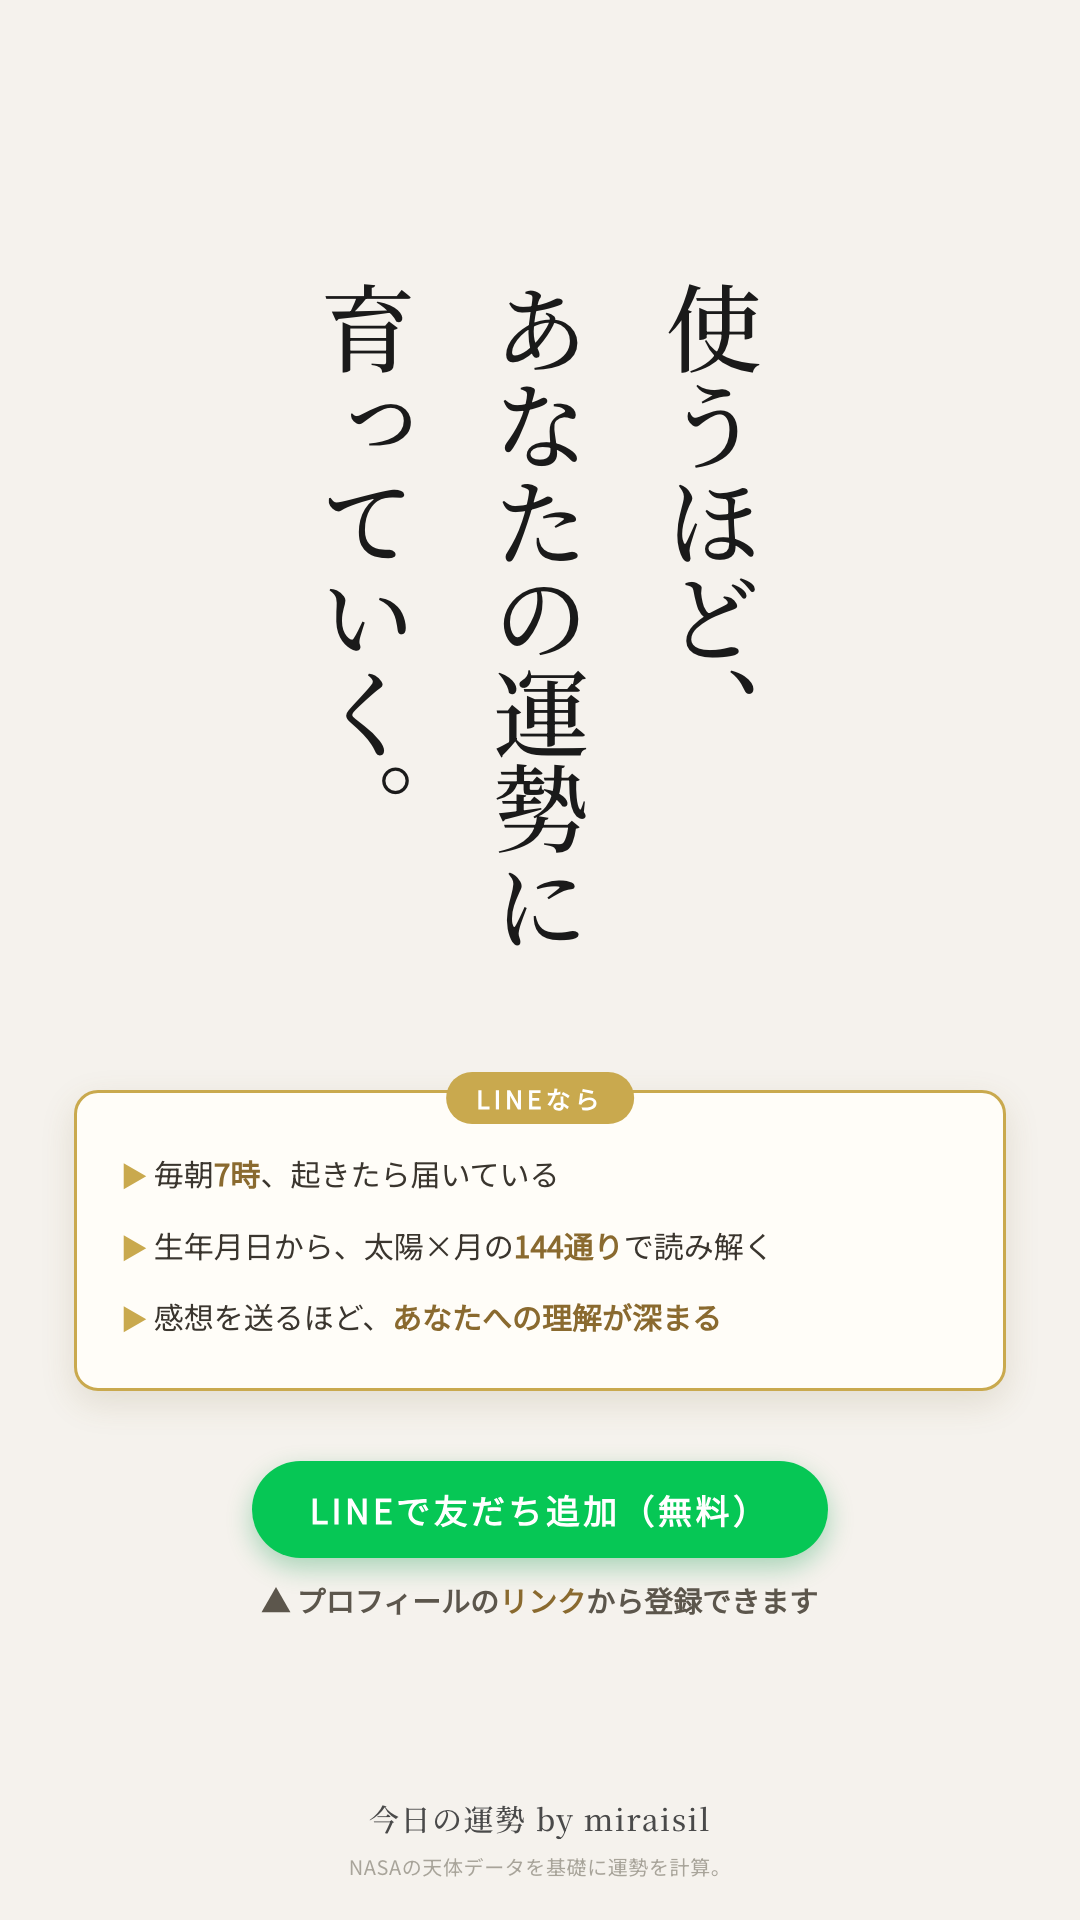
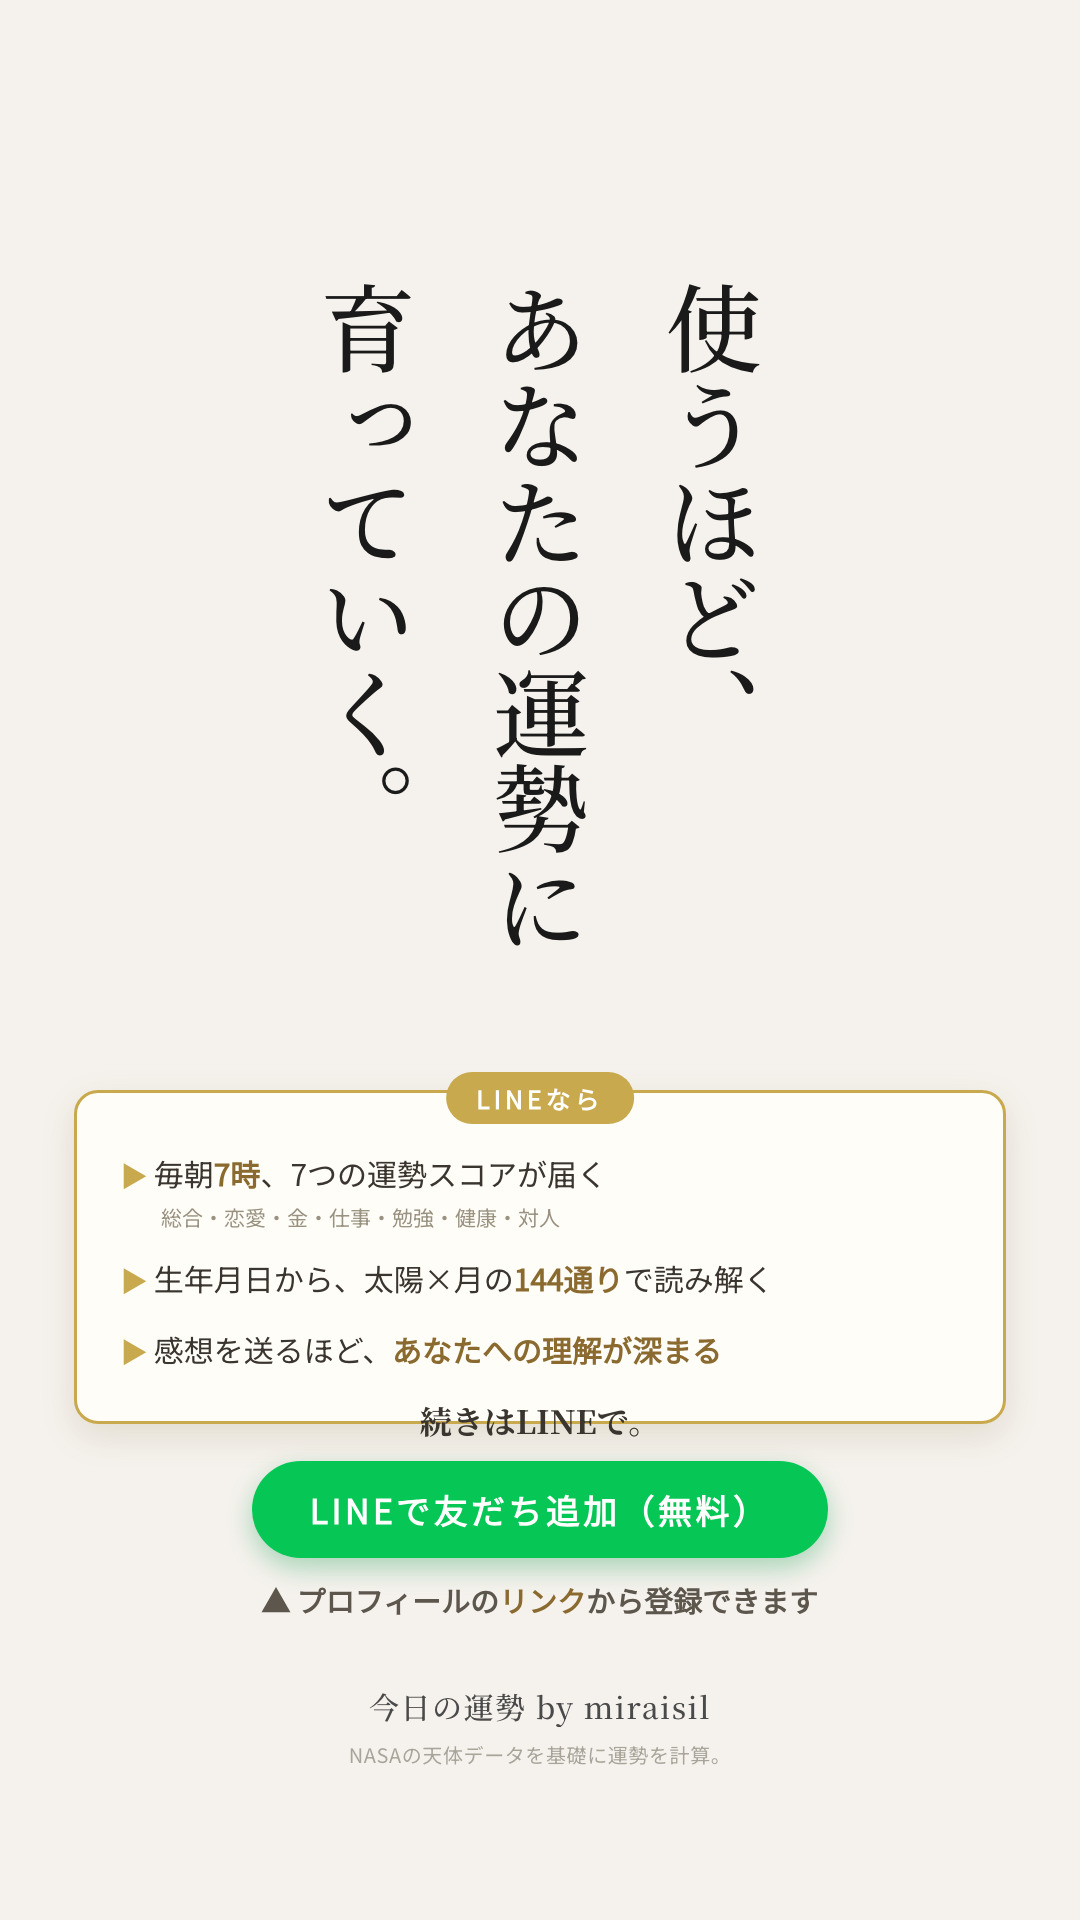
CTA slide: swap first bullet + add subline, add lead-in above button, align footer position with other 3 slides

Changed region(s): [[0.0611, 0.5938, 0.9472, 0.75], [0.3667, 0.875, 0.6417, 1.0], [0.3667, 0.875, 0.3972, 0.9062]]

diff --git a/story-4slide-test/index.html b/story-4slide-test/index.html
@@ -4,7 +4,7 @@
 <meta charset="UTF-8">
 <meta name="viewport" content="width=device-width, initial-scale=1.0">
 <meta name="robots" content="noindex, nofollow">
-<title>ストーリーズ4枚構成 確認（帯/題名入替・フッタ中央・改行D） | miraisil</title>
+<title>ストーリーズ4枚構成 確認（CTAスライド3点修正） | miraisil</title>
 <style>
   * { box-sizing: border-box; margin: 0; padding: 0; }
   body {
@@ -33,8 +33,16 @@
 </style>
 </head>
 <body>
-<div class="label">ストーリーズ4枚構成 TEST（帯/題名入替・フッタ中央・改行D） &middot; Internal Only</div>
+<div class="label">ストーリーズ4枚構成 TEST（CTAスライド3点修正） &middot; Internal Only</div>
 <div class="fixnote">
+<b>今回: CTAスライド最小限修正</b><br>
+既存の見出し・レイアウト・ボタン・フッタ文言は維持し、以下3点のみ変更:<br>
+1. 「LINEなら」1項目め「毎朝7時、起きたら届いている」→「毎朝7時、7つの運勢スコアが届く」に差し替え、
+直下に小さめのサブライン「総合・恋愛・金・仕事・勉強・健康・対人」を追加。2項目め・3項目めは無変更。<br>
+2. 友だち追加ボタンの直上に「続きはLINEで。」を1行追加。<br>
+3. フッタ位置を他3スライドと統一（旧: bottom:36px → 新: bottom:140px、background/padding も他スライドと同一に）。
+実測: 4スライドとも本文開始のy座標が完全一致（y=1693）していることを確認済み。<br>
+牡羊座カードにCTA（slide4）を追加表示しています。<br><br>
 <b>A. 帯と縦書き題名の入替え</b><br>
 帯を実カテゴリ名（例:「今日の恋愛運スコアは」）、縦書き題名を「攻め運/守り運」種別
 （例:「水瓶座　7月16日の攻め運」）に入替え済み。実測値（水瓶座）: attack category_label=
@@ -74,6 +82,7 @@ footer-line1/line2に display:block; width:100%; text-align:center; を明示追
   <figure><img src="aries_slide1_overall.png"><figcaption><b>全体運</b><br>今日は、動くたびに手応えがある日です。土星が真横にあり、責任ある行動が力を増します。丁寧に積み上げたことが、ちゃんと報われます。</figcaption></figure>
   <figure><img src="aries_slide2_attack.png"><figcaption><b>攻め運: 恋愛運(88点)</b><br>今日は、恋愛が攻め運の日。金星が魅力を自然と引き出しています。気になる相手に、一言声をかけてみて。</figcaption></figure>
   <figure><img src="aries_slide3_defense.png"><figcaption><b>守り運: 勉強運(73点)</b><br>今日は、勉強は慎重に。水星が逆行中で情報が混線しやすい日です。復習を中心にすると、力が定着します。</figcaption></figure>
+  <figure><img src="aries_slide4_cta.png"><figcaption><b>CTA（本日修正: 1項目め差し替え＋サブライン追加／ボタン上に「続きはLINEで。」追加／フッタ位置を他3枚と統一）</b></figcaption></figure>
 </div>
 <hr>
 <h2>牡牛座 (Taurus)</h2>
